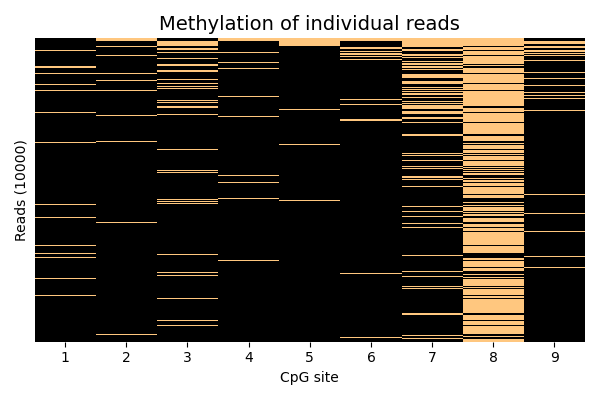
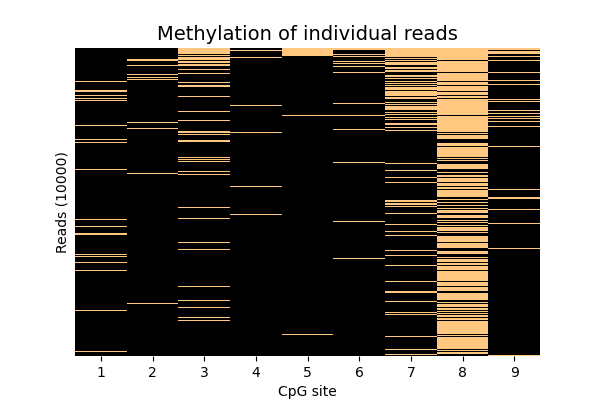
heatmap

diff --git a/utils/heatmap.py b/utils/heatmap.py
@@ -63,5 +63,5 @@ def _generate_heatmap(data: list, xrange: int, color="copper"):
         color="black", # palette[3]
         fontweight="normal", #'normal' | 'bold' | 'heavy' | 'light' | 'ultrabold' | 'ultralight'    
     )
-    plt.tight_layout()
+    # plt.tight_layout()
     return

diff --git a/README.md b/README.md
@@ -18,4 +18,5 @@ There are two modes `single` (default) and `multiple`. In a `single` mode one hi
 Number of reads to be plotted on heatmaps. If the passed number is greater than the total read number in an input file(s), then the last one will be used.  
 
 ## Examplary output  
-<img title="single mode histogram" src="images/overlay_histogram.png" width="300"/> <img title="multiple mode histogram" src="images/single_data_histogram.png" width="300"/> <img title="heatmap" src="images/heatmap.png" width="300"/> 
+<img title="single mode histogram" src="images/overlay_histogram.png" width="300"/> <img title="multiple mode histogram" src="images/single_data_histogram.png" width="300"/>  
+<img title="heatmap" src="images/heatmap.png" width="300"/> 
